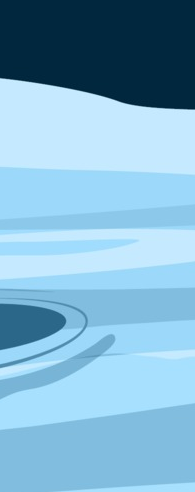
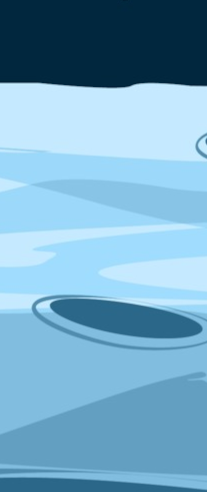
Funciona Iniciar Sesion

diff --git a/src/view/Principal.java b/src/view/Principal.java
@@ -13,9 +13,16 @@ public class Principal extends javax.swing.JFrame {
     /**
      * Creates new form Principal
      */
+    InicioView inicio;
+    Portada portada;
     public Principal() {
         initComponents();
         this.setLocationRelativeTo(this);
+        portada = new Portada();
+         inicio = new InicioView();
+         Pprincipal.add(portada);
+         inicio.setVisible(false);
+         portada.setVisible(true);
     }
 
     /**
@@ -38,6 +45,7 @@ public class Principal extends javax.swing.JFrame {
         jPanel2 = new javax.swing.JPanel();
         jButton1 = new javax.swing.JButton();
         jLabel2 = new javax.swing.JLabel();
+        jLabel3 = new javax.swing.JLabel();
 
         setDefaultCloseOperation(javax.swing.WindowConstants.EXIT_ON_CLOSE);
         setMaximumSize(new java.awt.Dimension(2147483647, 979));
@@ -92,25 +100,22 @@ public class Principal extends javax.swing.JFrame {
         jPanel1.setLayout(jPanel1Layout);
         jPanel1Layout.setHorizontalGroup(
             jPanel1Layout.createParallelGroup(javax.swing.GroupLayout.Alignment.LEADING)
-            .addGroup(javax.swing.GroupLayout.Alignment.TRAILING, jPanel1Layout.createSequentialGroup()
-                .addGap(0, 0, Short.MAX_VALUE)
-                .addComponent(jLabel4, javax.swing.GroupLayout.PREFERRED_SIZE, 201, javax.swing.GroupLayout.PREFERRED_SIZE))
+            .addComponent(jLabel4, javax.swing.GroupLayout.DEFAULT_SIZE, javax.swing.GroupLayout.DEFAULT_SIZE, Short.MAX_VALUE)
             .addGroup(jPanel1Layout.createSequentialGroup()
                 .addGroup(jPanel1Layout.createParallelGroup(javax.swing.GroupLayout.Alignment.LEADING)
                     .addGroup(jPanel1Layout.createSequentialGroup()
-                        .addGap(26, 26, 26)
-                        .addGroup(jPanel1Layout.createParallelGroup(javax.swing.GroupLayout.Alignment.TRAILING)
+                        .addGap(18, 18, 18)
+                        .addGroup(jPanel1Layout.createParallelGroup(javax.swing.GroupLayout.Alignment.LEADING)
+                            .addComponent(Bregistrar)
+                            .addComponent(Bconsultar)))
+                    .addGroup(jPanel1Layout.createSequentialGroup()
+                        .addGap(36, 36, 36)
+                        .addGroup(jPanel1Layout.createParallelGroup(javax.swing.GroupLayout.Alignment.LEADING)
                             .addComponent(Biniciar)
                             .addComponent(jLabel1)))
                     .addGroup(jPanel1Layout.createSequentialGroup()
-                        .addGap(45, 45, 45)
-                        .addComponent(Bjugar))
-                    .addGroup(jPanel1Layout.createSequentialGroup()
-                        .addContainerGap()
-                        .addComponent(Bregistrar))
-                    .addGroup(jPanel1Layout.createSequentialGroup()
-                        .addContainerGap()
-                        .addComponent(Bconsultar)))
+                        .addGap(61, 61, 61)
+                        .addComponent(Bjugar)))
                 .addContainerGap(javax.swing.GroupLayout.DEFAULT_SIZE, Short.MAX_VALUE))
         );
         jPanel1Layout.setVerticalGroup(
@@ -118,21 +123,22 @@ public class Principal extends javax.swing.JFrame {
             .addGroup(jPanel1Layout.createSequentialGroup()
                 .addGap(27, 27, 27)
                 .addComponent(jLabel1)
-                .addGap(45, 45, 45)
+                .addGap(69, 69, 69)
                 .addComponent(Biniciar)
                 .addGap(18, 18, 18)
                 .addComponent(Bjugar)
-                .addGap(18, 18, 18)
+                .addPreferredGap(javax.swing.LayoutStyle.ComponentPlacement.RELATED)
                 .addComponent(Bregistrar)
-                .addGap(18, 18, 18)
+                .addPreferredGap(javax.swing.LayoutStyle.ComponentPlacement.RELATED)
                 .addComponent(Bconsultar)
-                .addPreferredGap(javax.swing.LayoutStyle.ComponentPlacement.RELATED, 129, Short.MAX_VALUE)
-                .addComponent(jLabel4))
+                .addPreferredGap(javax.swing.LayoutStyle.ComponentPlacement.RELATED, 231, Short.MAX_VALUE)
+                .addComponent(jLabel4, javax.swing.GroupLayout.PREFERRED_SIZE, 409, javax.swing.GroupLayout.PREFERRED_SIZE))
         );
 
         Pprincipal.add(jPanel1, java.awt.BorderLayout.LINE_START);
 
         jPanel2.setBackground(new java.awt.Color(1, 39, 61));
+        jPanel2.setLayout(new org.netbeans.lib.awtextra.AbsoluteLayout());
 
         jButton1.setBackground(new java.awt.Color(255, 0, 0));
         jButton1.setText("X");
@@ -146,30 +152,11 @@ public class Principal extends javax.swing.JFrame {
                 jButton1ActionPerformed(evt);
             }
         });
+        jPanel2.add(jButton1, new org.netbeans.lib.awtextra.AbsoluteConstraints(940, 10, -1, -1));
+        jPanel2.add(jLabel2, new org.netbeans.lib.awtextra.AbsoluteConstraints(470, 53, -1, -1));
 
-        javax.swing.GroupLayout jPanel2Layout = new javax.swing.GroupLayout(jPanel2);
-        jPanel2.setLayout(jPanel2Layout);
-        jPanel2Layout.setHorizontalGroup(
-            jPanel2Layout.createParallelGroup(javax.swing.GroupLayout.Alignment.LEADING)
-            .addGroup(javax.swing.GroupLayout.Alignment.TRAILING, jPanel2Layout.createSequentialGroup()
-                .addGap(470, 470, 470)
-                .addComponent(jLabel2)
-                .addPreferredGap(javax.swing.LayoutStyle.ComponentPlacement.RELATED, 675, Short.MAX_VALUE)
-                .addComponent(jButton1)
-                .addGap(16, 16, 16))
-        );
-        jPanel2Layout.setVerticalGroup(
-            jPanel2Layout.createParallelGroup(javax.swing.GroupLayout.Alignment.LEADING)
-            .addGroup(jPanel2Layout.createSequentialGroup()
-                .addGroup(jPanel2Layout.createParallelGroup(javax.swing.GroupLayout.Alignment.LEADING)
-                    .addGroup(jPanel2Layout.createSequentialGroup()
-                        .addGap(32, 32, 32)
-                        .addComponent(jLabel2))
-                    .addGroup(jPanel2Layout.createSequentialGroup()
-                        .addGap(19, 19, 19)
-                        .addComponent(jButton1)))
-                .addContainerGap(19, Short.MAX_VALUE))
-        );
+        jLabel3.setIcon(new javax.swing.ImageIcon(getClass().getResource("/resources/img/FONDO4.png"))); // NOI18N
+        jPanel2.add(jLabel3, new org.netbeans.lib.awtextra.AbsoluteConstraints(490, 0, 230, 55));
 
         Pprincipal.add(jPanel2, java.awt.BorderLayout.PAGE_START);
 
@@ -183,8 +170,10 @@ public class Principal extends javax.swing.JFrame {
     }//GEN-LAST:event_BiniciarActionPerformed
 
     private void BiniciarMouseClicked(java.awt.event.MouseEvent evt) {//GEN-FIRST:event_BiniciarMouseClicked
-        InicioView inicio = new InicioView();
+        
         Pprincipal.add(inicio);
+        inicio.setVisible(true);
+        portada.setVisible(false);
         Pprincipal.validate();
     }//GEN-LAST:event_BiniciarMouseClicked
 
@@ -241,6 +230,7 @@ public class Principal extends javax.swing.JFrame {
     private javax.swing.JButton jButton1;
     private javax.swing.JLabel jLabel1;
     private javax.swing.JLabel jLabel2;
+    private javax.swing.JLabel jLabel3;
     private javax.swing.JLabel jLabel4;
     private javax.swing.JPanel jPanel1;
     private javax.swing.JPanel jPanel2;

diff --git a/src/view/Portada.java b/src/view/Portada.java
@@ -1,0 +1,47 @@
+/*
+ * Click nbfs://nbhost/SystemFileSystem/Templates/Licenses/license-default.txt to change this license
+ * Click nbfs://nbhost/SystemFileSystem/Templates/GUIForms/JPanel.java to edit this template
+ */
+package view;
+
+/**
+ *
+ * @author labdessw09
+ */
+public class Portada extends javax.swing.JPanel {
+
+    /**
+     * Creates new form Portada
+     */
+    public Portada() {
+        initComponents();
+    }
+
+    /**
+     * This method is called from within the constructor to initialize the form.
+     * WARNING: Do NOT modify this code. The content of this method is always
+     * regenerated by the Form Editor.
+     */
+    @SuppressWarnings("unchecked")
+    // <editor-fold defaultstate="collapsed" desc="Generated Code">//GEN-BEGIN:initComponents
+    private void initComponents() {
+
+        jLabel2 = new javax.swing.JLabel();
+        jLabel1 = new javax.swing.JLabel();
+
+        setLayout(new org.netbeans.lib.awtextra.AbsoluteLayout());
+
+        jLabel2.setIcon(new javax.swing.ImageIcon(getClass().getResource("/resources/img/GALAXY-24-11-2022(2).png"))); // NOI18N
+        add(jLabel2, new org.netbeans.lib.awtextra.AbsoluteConstraints(190, 370, -1, -1));
+
+        jLabel1.setBackground(new java.awt.Color(1, 39, 61));
+        jLabel1.setIcon(new javax.swing.ImageIcon(getClass().getResource("/resources/img/fondo2.jpg"))); // NOI18N
+        add(jLabel1, new org.netbeans.lib.awtextra.AbsoluteConstraints(0, 0, 990, 880));
+    }// </editor-fold>//GEN-END:initComponents
+
+
+    // Variables declaration - do not modify//GEN-BEGIN:variables
+    private javax.swing.JLabel jLabel1;
+    private javax.swing.JLabel jLabel2;
+    // End of variables declaration//GEN-END:variables
+}

diff --git a/src/view/InicioView.java b/src/view/InicioView.java
@@ -69,7 +69,7 @@ public class InicioView extends javax.swing.JPanel {
 
         jLabel1.setBackground(new java.awt.Color(1, 39, 61));
         jLabel1.setIcon(new javax.swing.ImageIcon(getClass().getResource("/resources/img/fondo2.jpg"))); // NOI18N
-        add(jLabel1, new org.netbeans.lib.awtextra.AbsoluteConstraints(0, 0, 990, 910));
+        add(jLabel1, new org.netbeans.lib.awtextra.AbsoluteConstraints(0, 0, 990, 880));
     }// </editor-fold>//GEN-END:initComponents
 
     private void jPasswordField1ActionPerformed(java.awt.event.ActionEvent evt) {//GEN-FIRST:event_jPasswordField1ActionPerformed
